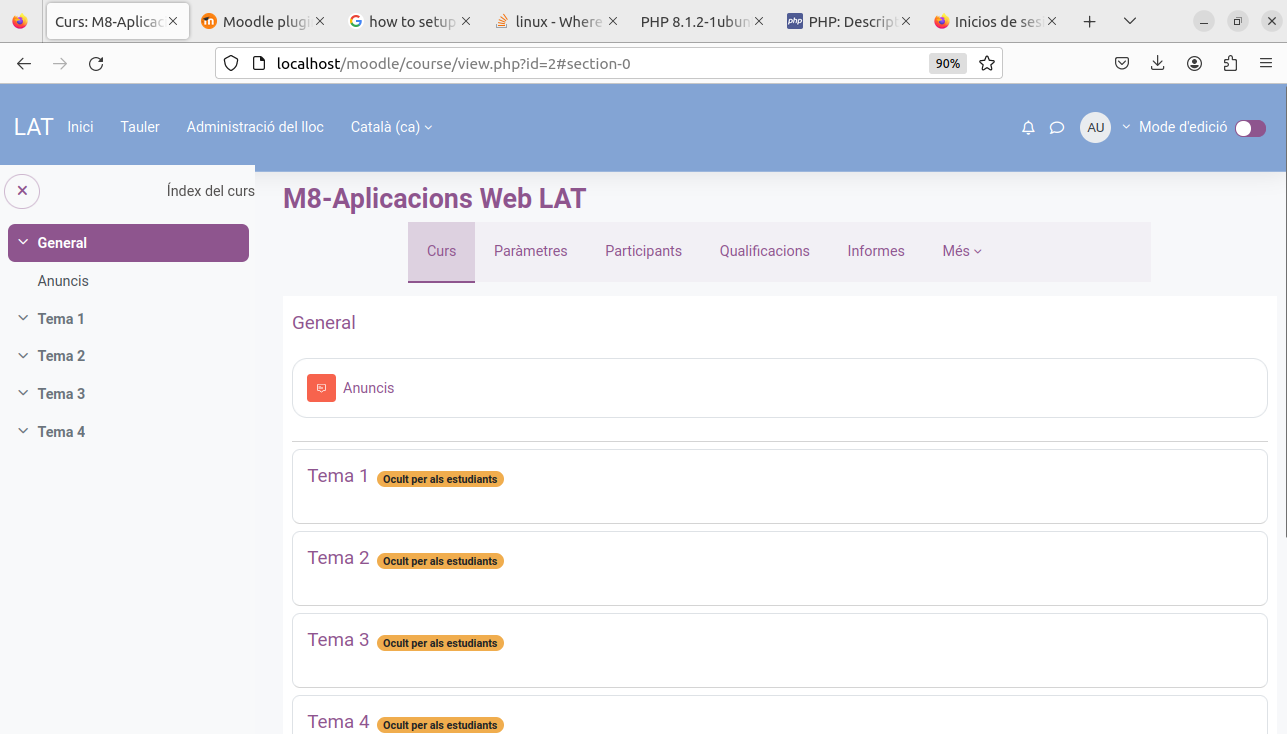
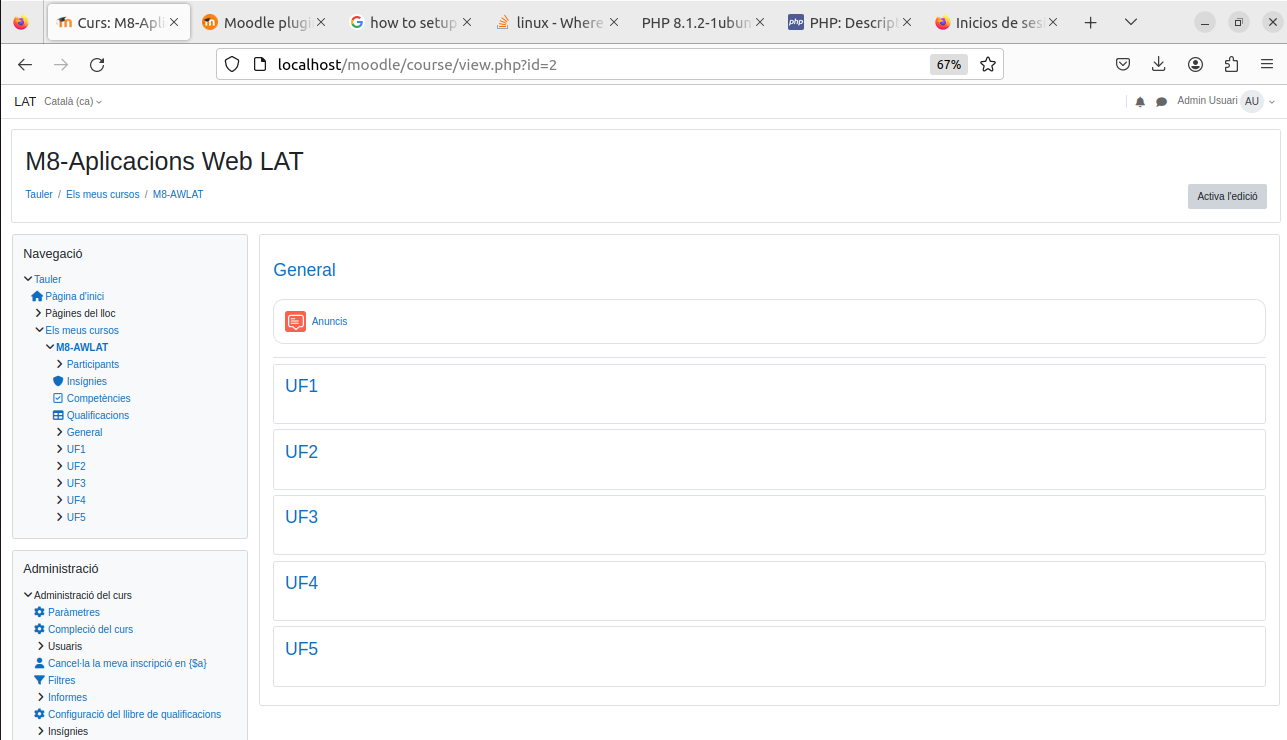
moodle

diff --git a/src/content/blog/ap4.2-sistemes-uf04.md b/src/content/blog/ap4.2-sistemes-uf04.md
@@ -330,3 +330,43 @@ Inicia sessió amb el professor_inicials
 Modifica el curs Aplicacions Web de tal manera que tingui 5 temes, un per cada UF que té el mòdul.
 
 ![moodle](/moodle/33.png)
+
+Posa activitats:
+
+![moodle](/moodle/34.png)
+
+## Apartat 6: Qualificació
+
+Entra amb dues contes de alumes i fes que facin les activitats.
+
+![moodle](/moodle/35.png)
+
+![moodle](/moodle/36.png)
+
+Ara inicia sessió amb el professor_inicials
+
+![moodle](/moodle/37.png)
+
+Mira les trameses
+
+![moodle](/moodle/38.png)
+
+Qualifica les activitats
+
+![moodle](/moodle/39.png)
+
+![moodle](/moodle/40.png)
+
+I aixi ja la qualificació està feta.
+
+![moodle](/moodle/41.png)
+
+Finalment entra a l’apartat Qualificacions > Configuració (categories i elements) i crea la nota mitjana de les pràctiques del curs al total de la categoria
+
+![moodle](/moodle/42.png)
+
+## Apartat 7: Exportar importar cursos
+
+No em deixa però aquí deixo com es fa:
+
+![moodle](/moodle/43.png)
